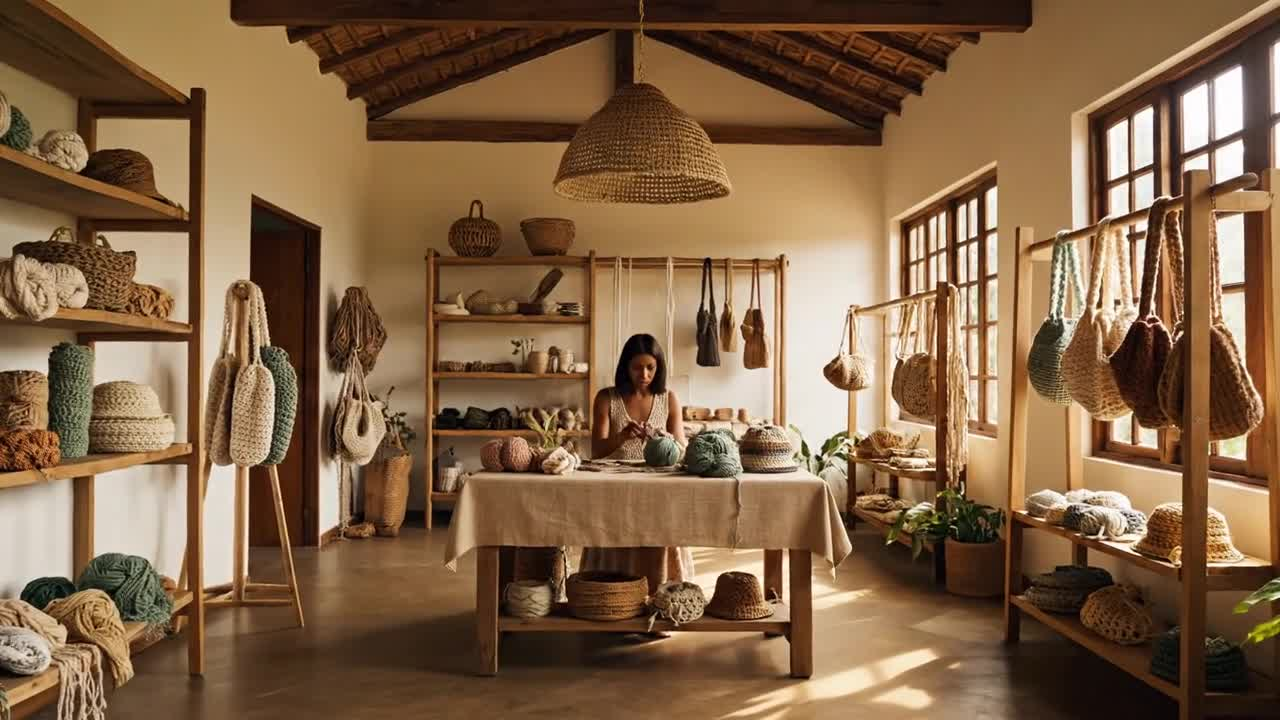
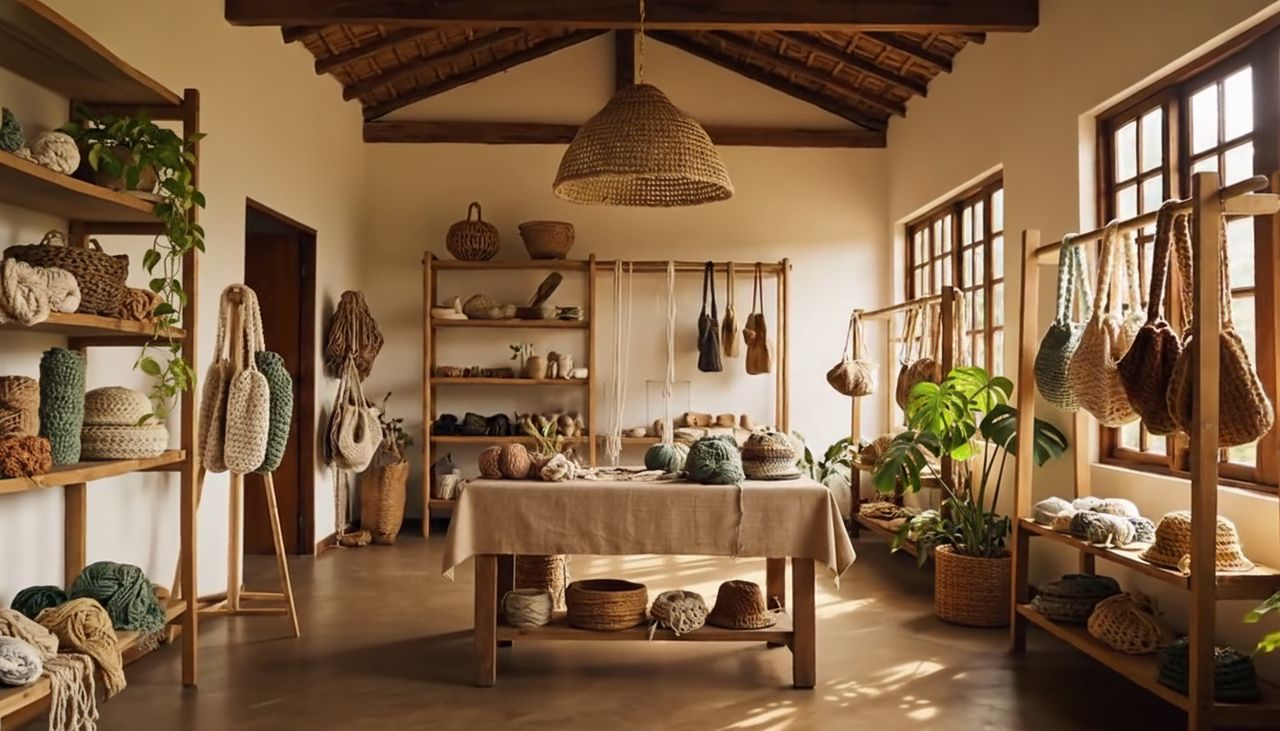
feat: plano final del hero sin persona y con plantas (Nano Banana) + crossfade
- Veo ignoro 'estudio vacio' al regenerar (y metio colores fuera de paleta),
  asi que se mantiene el video original y se edito solo el frame final con
  gemini-2.5-flash-image: persona removida, plantas agregadas
- El hero hace crossfade (1.4s) del video al plano limpio cuando termina
- El poster ahora es el plano limpio (tambien fallback de reduced-motion)
- scripts/clean-hero-frame.mjs para reproducir la edicion

diff --git a/components/hero.tsx b/components/hero.tsx
@@ -5,7 +5,7 @@
 // taller y se funde con la sección siguiente vía velo crudo + parallax.
 // Dirección ui-ux-pro-max: Storytelling + Hero-Centric, estilo Motion-Driven.
 
-import { useEffect, useRef } from "react"
+import { useEffect, useRef, useState } from "react"
 import gsap from "gsap"
 import { ScrollTrigger } from "gsap/ScrollTrigger"
 import { MessageCircle } from "lucide-react"
@@ -16,7 +16,11 @@ gsap.registerPlugin(ScrollTrigger)
 export function Hero() {
   const sectionRef = useRef<HTMLElement>(null)
   const videoRef = useRef<HTMLVideoElement>(null)
+  const mediaRef = useRef<HTMLDivElement>(null)
   const contentRef = useRef<HTMLDivElement>(null)
+  // Al terminar el video, fundido al plano del taller sin gente y con plantas
+  // (frame editado con Nano Banana: ver scripts/clean-hero-frame.mjs)
+  const [ended, setEnded] = useState(false)
 
   useEffect(() => {
     const section = sectionRef.current
@@ -41,7 +45,7 @@ export function Hero() {
 
     // Parallax de salida: el video queda atrás (lento, leve zoom) y el texto
     // sube más rápido — el hero se mezcla con la sección siguiente
-    const videoTween = gsap.to(video, {
+    const videoTween = gsap.to(mediaRef.current, {
       yPercent: 18,
       scale: 1.07,
       ease: "none",
@@ -77,8 +81,9 @@ export function Hero() {
   return (
     <section ref={sectionRef} className="relative min-h-[100svh] overflow-hidden bg-[#F5F0E6]">
       {/* Video: entrada al taller. Termina y se queda en el plano amplio */}
-      <video
-        ref={videoRef}
+      <div ref={mediaRef} className="absolute inset-0">
+        <video
+          ref={videoRef}
         className="absolute inset-0 h-full w-full object-cover object-[center_30%]"
         src="/hero/estudio.mp4"
         poster="/hero/estudio-poster.jpg"
@@ -86,8 +91,20 @@ export function Hero() {
         muted
         playsInline
         preload="auto"
+        onEnded={() => setEnded(true)}
         aria-label="Video entrando al taller de crochet de Alma & Hilo en Cartago"
       />
+
+        {/* Plano final limpio (sin gente, con plantas): crossfade al terminar el video */}
+        <img
+          src="/hero/estudio-poster.jpg"
+          alt=""
+          aria-hidden="true"
+          className={`absolute inset-0 h-full w-full object-cover object-[center_30%] transition-opacity duration-[1400ms] ease-out ${
+            ended ? "opacity-100" : "opacity-0"
+          }`}
+        />
+      </div>
 
       {/* Scrim superior sutil para el header */}
       <div